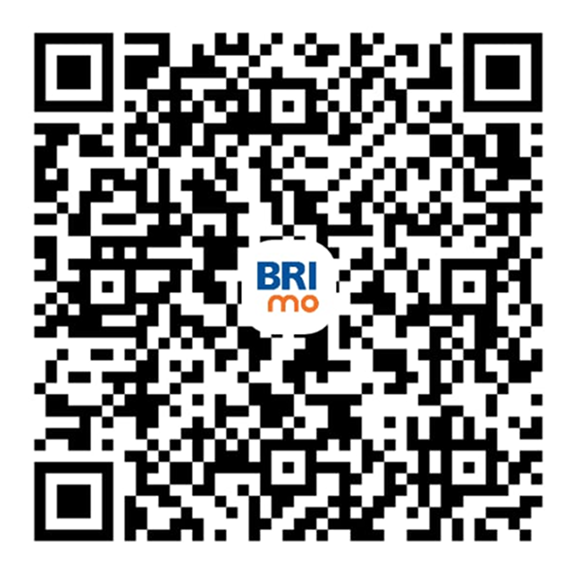
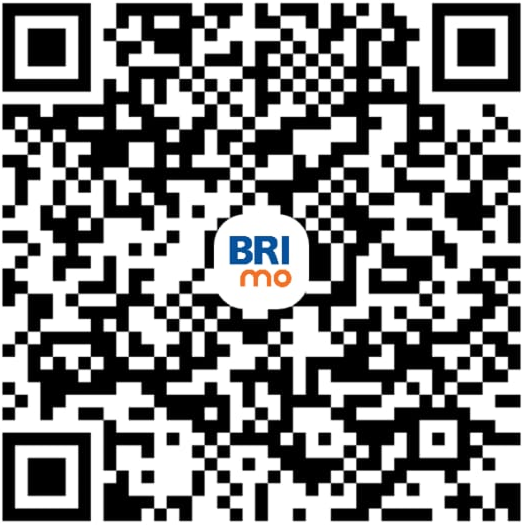
fix pembayaran

diff --git a/src/pages/tamu.html b/src/pages/tamu.html
@@ -157,11 +157,13 @@
                                     <p class="instruction-text">Scan QR code di bawah ini dengan aplikasi mobile banking
                                         atau e-wallet Anda</p>
                                     <div class="qris-code-wrapper">
-                                        <img src="../img/qris-bri.png" alt="QRIS Code" class="qris-code">
+                                        <!-- QRIS BRI Code -->
+                                        <img src="../img/qris-bri.png" alt="QRIS BRI" class="qris-code"
+                                            style="width: 100%; max-width: 280px; height: auto; border-radius: 12px; display: block; margin: 0 auto;">
                                     </div>
                                     <div class="qris-info">
-                                        <p class="qris-name">Kawal Sehat Pian</p>
-                                        <p class="qris-merchant">Merchant ID: 1234567890</p>
+                                        <p class="qris-name">IRLAWATI - Kawal Sehat Pian</p>
+                                        <p class="qris-merchant">BRI - QRIS Payment</p>
                                     </div>
                                     <div class="payment-apps">
                                         <p class="apps-label">Bisa dibayar dengan:</p>
@@ -171,6 +173,7 @@
                                             <span class="app-badge">Dana</span>
                                             <span class="app-badge">ShopeePay</span>
                                             <span class="app-badge">LinkAja</span>
+                                            <span class="app-badge">BRImo</span>
                                         </div>
                                     </div>
                                 </div>
@@ -183,31 +186,33 @@
                                 <div class="bank-transfer-info">
                                     <div class="bank-card">
                                         <div class="bank-card-header">
-                                            <img src="../img/logo-brimo.png" alt="BCA" class="bank-logo-small">
-                                            <span class="bank-name">BCA</span>
+                                            <img src="../img/logo-brimo.png" alt="BRI" class="bank-logo-small">
+                                            <span class="bank-name">BRI</span>
                                         </div>
                                         <div class="bank-card-body">
                                             <p class="account-label">Nomor Rekening</p>
-                                            <p class="account-number" id="account-number">1234567890</p>
+                                            <p class="account-number" id="account-number">454901033197535</p>
                                             <button id="copy-account-number" class="btn-copy">
                                                 <span class="copy-icon">📋</span>
                                                 Salin
                                             </button>
                                         </div>
                                         <div class="bank-card-footer">
-                                            <p class="account-name">a.n. <strong>Bidan Pian</strong></p>
+                                            <p class="account-name">a.n. <strong>IRLAWATI</strong></p>
                                         </div>
                                     </div>
 
                                     <div class="transfer-steps">
                                         <h4>Cara Transfer:</h4>
                                         <ol>
-                                            <li>Buka aplikasi mobile banking atau ATM</li>
-                                            <li>Pilih menu Transfer</li>
-                                            <li>Masukkan nomor rekening di atas</li>
+                                            <li>Buka aplikasi <strong>BRImo</strong>, mobile banking, atau ATM BRI</li>
+                                            <li>Pilih menu <strong>Transfer</strong></li>
+                                            <li>Pilih <strong>Transfer Sesama BRI</strong></li>
+                                            <li>Masukkan nomor rekening: <strong>454901033197535</strong></li>
                                             <li>Masukkan nominal: <strong id="transfer-amount"></strong></li>
+                                            <li>Pastikan nama penerima: <strong>IRLAWATI</strong></li>
                                             <li>Konfirmasi dan selesaikan pembayaran</li>
-                                            <li>Simpan bukti transfer</li>
+                                            <li>Simpan bukti transfer untuk diupload</li>
                                         </ol>
                                     </div>
                                 </div>

diff --git a/src/pages/pasien.html b/src/pages/pasien.html
@@ -166,11 +166,13 @@
                                         atau e-wallet Anda
                                     </p>
                                     <div class="qris-code-wrapper">
-                                        <img src="../img/qris-bri.png" alt="QRIS Code" class="qris-code">
+                                        <!-- QRIS BRI Code -->
+                                        <img src="../img/qris-bri.png" alt="QRIS BRI" class="qris-code"
+                                            style="width: 100%; max-width: 280px; height: auto; border-radius: 12px; display: block; margin: 0 auto;">
                                     </div>
                                     <div class="qris-info">
-                                        <p class="qris-name">Kawal Sehat Pian</p>
-                                        <p class="qris-merchant">Merchant ID: 1234567890</p>
+                                        <p class="qris-name">IRLAWATI - Kawal Sehat Pian</p>
+                                        <p class="qris-merchant">BRI - QRIS Payment</p>
                                     </div>
                                     <div class="payment-apps">
                                         <p class="apps-label">Bisa dibayar dengan:</p>
@@ -180,6 +182,7 @@
                                             <span class="app-badge">Dana</span>
                                             <span class="app-badge">ShopeePay</span>
                                             <span class="app-badge">LinkAja</span>
+                                            <span class="app-badge">BRImo</span>
                                         </div>
                                     </div>
                                 </div>
@@ -192,31 +195,33 @@
                                 <div class="bank-transfer-info">
                                     <div class="bank-card">
                                         <div class="bank-card-header">
-                                            <img src="../img/bca-logo.png" alt="BCA" class="bank-logo-small">
-                                            <span class="bank-name">BCA</span>
+                                            <img src="../img/logo-brimo.png" alt="BRI" class="bank-logo-small">
+                                            <span class="bank-name">BRI</span>
                                         </div>
                                         <div class="bank-card-body">
                                             <p class="account-label">Nomor Rekening</p>
-                                            <p class="account-number" id="account-number">1234567890</p>
+                                            <p class="account-number" id="account-number">454901033197535</p>
                                             <button id="copy-account-number" class="btn-copy">
                                                 <span class="copy-icon">📋</span>
                                                 Salin
                                             </button>
                                         </div>
                                         <div class="bank-card-footer">
-                                            <p class="account-name">a.n. <strong>Bidan Pian</strong></p>
+                                            <p class="account-name">a.n. <strong>IRLAWATI</strong></p>
                                         </div>
                                     </div>
 
                                     <div class="transfer-steps">
                                         <h4>Cara Transfer:</h4>
                                         <ol>
-                                            <li>Buka aplikasi mobile banking atau ATM</li>
-                                            <li>Pilih menu Transfer</li>
-                                            <li>Masukkan nomor rekening di atas</li>
+                                            <li>Buka aplikasi <strong>BRImo</strong>, mobile banking, atau ATM BRI</li>
+                                            <li>Pilih menu <strong>Transfer</strong></li>
+                                            <li>Pilih <strong>Transfer Sesama BRI</strong></li>
+                                            <li>Masukkan nomor rekening: <strong>454901033197535</strong></li>
                                             <li>Masukkan nominal: <strong id="transfer-amount"></strong></li>
+                                            <li>Pastikan nama penerima: <strong>IRLAWATI</strong></li>
                                             <li>Konfirmasi dan selesaikan pembayaran</li>
-                                            <li>Simpan bukti transfer</li>
+                                            <li>Simpan bukti transfer untuk diupload</li>
                                         </ol>
                                     </div>
                                 </div>

diff --git a/src/index.html b/src/index.html
@@ -98,7 +98,7 @@
     <!-- Footer -->
     <footer id="app-footer">
         <div class="container">
-            <p>&copy; 2024 Kawal Sehat Pian. Layanan Bidan Online Terpercaya.</p>
+            <p>&copy; 2025 Kawal Sehat Pian. Layanan Bidan Online Terpercaya.</p>
         </div>
     </footer>
 

diff --git a/src/css/mobile-view.css b/src/css/mobile-view.css
@@ -892,9 +892,9 @@
 }
 
 .account-number {
-  font-size: 1.6rem;
+  font-size: 1.1rem;
   font-weight: bold;
-  letter-spacing: 3px;
+  letter-spacing: 2px;
   margin: 0;
   font-family: "Courier New", monospace;
 }
